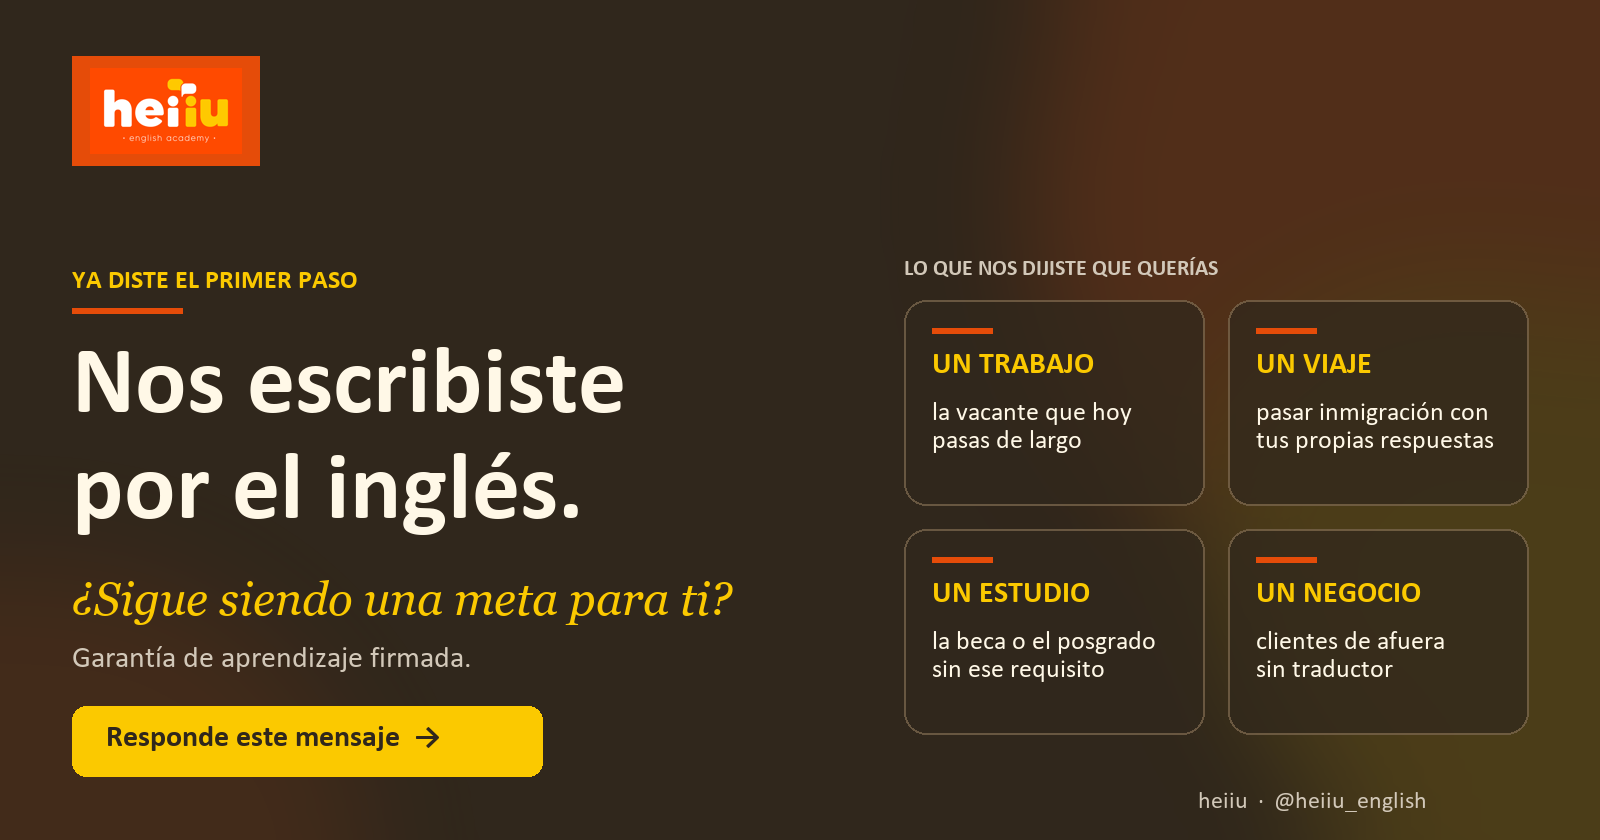
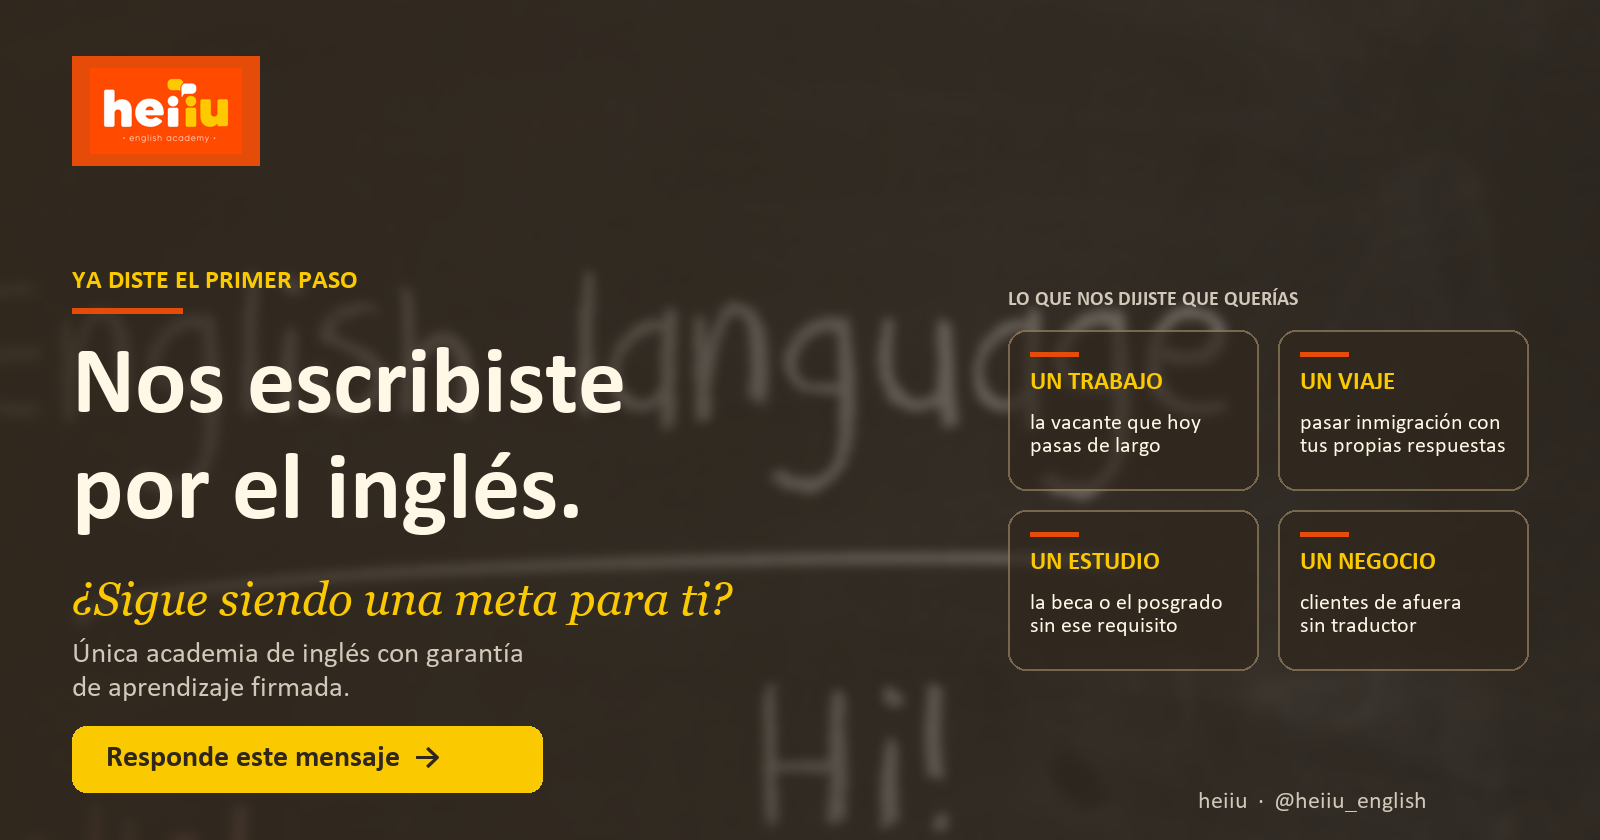
Pieza de reactivacion: fondo tablero (foto Pixabay) desenfocado con capa oscura, 'unica academia con garantia firmada', cuadros mas pequenos

Changed region(s): [[0.2812, 0.0, 1.0, 1.0], [0.0312, 0.7738, 0.3438, 0.9595], [0.25, 0.4024, 0.3125, 0.4333]]

diff --git a/generadores/comercial/gen_pieza_reactivacion.py b/generadores/comercial/gen_pieza_reactivacion.py
@@ -14,14 +14,16 @@ def font(name, size): return ImageFont.truetype(F + name, size)
 foto = os.path.join(BASE, 'fondo_reactivacion.jpg')
 if os.path.exists(foto):
     img = Image.open(foto).convert('RGB')
+    img = img.crop((int(img.width * 0.18), 0, img.width, int(img.height * 0.56)))  # franja superior, corrida a la derecha
     # recorte a 1600x840 cubriendo
     r = max(W / img.width, H / img.height); img = img.resize((int(img.width * r) + 1, int(img.height * r) + 1))
     x = (img.width - W) // 2; y = (img.height - H) // 2; img = img.crop((x, y, x + W, y + H))
     # capa oscura con degradado: mas oscura a la izquierda (texto), mas foto a la derecha
     overlay = Image.new('RGBA', (W, H), (0, 0, 0, 0)); od = ImageDraw.Draw(overlay)
     for i in range(W):
-        a = int(235 - 110 * (i / W))  # 235 -> 125
+        a = int(242 - 100 * (i / W))  # 242 -> 142
         od.line([(i, 0), (i, H)], fill=(48, 39, 28, a))
+    img = img.filter(ImageFilter.GaussianBlur(5))
     img = Image.alpha_composite(img.convert('RGBA'), overlay).convert('RGB')
 else:
     img = Image.new('RGB', (W, H), BG)
@@ -53,26 +55,27 @@ d.text((72, 446), 'por el inglés.', font=font('calibrib.ttf', 96), fill=CREMA)
 # pregunta
 d.text((72, 572), '¿Sigue siendo una meta para ti?', font=font('georgiai.ttf', 46), fill=AMAR)
 # garantia
-d.text((72, 644), 'Garantía de aprendizaje firmada.', font=font('calibri.ttf', 30), fill=GRIS)
+d.text((72, 640), 'Única academia de inglés con garantía', font=font('calibri.ttf', 29), fill=GRIS)
+d.text((72, 674), 'de aprendizaje firmada.', font=font('calibri.ttf', 29), fill=GRIS)
 # boton
-bx, by, bw, bh = 72, 706, 470, 70
+bx, by, bw, bh = 72, 726, 470, 66
 d.rounded_rectangle([bx, by, bx + bw, by + bh], radius=14, fill=AMAR)
 d.text((bx + 34, by + 17), 'Responde este mensaje  →', font=font('calibrib.ttf', 30), fill=BG)
 # tarjetas de motivo (lado derecho), semitransparentes para que se vea el fondo
 cards = [('UN TRABAJO', 'la vacante que hoy\npasas de largo'), ('UN VIAJE', 'pasar inmigración con\ntus propias respuestas'), ('UN ESTUDIO', 'la beca o el posgrado\nsin ese requisito'), ('UN NEGOCIO', 'clientes de afuera\nsin traductor')]
-cw, ch, gap = 300, 205, 24
-x0 = W - 72 - (2 * cw + gap); y0 = 300
+cw, ch, gap = 250, 160, 20
+x0 = W - 72 - (2 * cw + gap); y0 = 330
 cl = Image.new('RGBA', (W, H), (0, 0, 0, 0)); cd = ImageDraw.Draw(cl)
 for i, (tit, sub) in enumerate(cards):
     cx = x0 + (i % 2) * (cw + gap); cy = y0 + (i // 2) * (ch + gap)
-    cd.rounded_rectangle([cx, cy, cx + cw, cy + ch], radius=22, fill=(48, 39, 28, 190), outline=(120, 100, 75, 200), width=2)
+    cd.rounded_rectangle([cx, cy, cx + cw, cy + ch], radius=18, fill=(48, 39, 28, 175), outline=(140, 118, 88, 200), width=2)
 img = Image.alpha_composite(img.convert('RGBA'), cl).convert('RGB'); d = ImageDraw.Draw(img)
 for i, (tit, sub) in enumerate(cards):
     cx = x0 + (i % 2) * (cw + gap); cy = y0 + (i // 2) * (ch + gap)
-    d.rectangle([cx + 28, cy + 28, cx + 88, cy + 33], fill=NAR)
-    d.text((cx + 28, cy + 50), tit, font=font('calibrib.ttf', 30), fill=AMAR)
-    d.multiline_text((cx + 28, cy + 100), sub, font=font('calibri.ttf', 26), fill=CREMA, spacing=8)
-d.text((x0, y0 - 42), 'LO QUE NOS DIJISTE QUE QUERÍAS', font=font('calibrib.ttf', 22), fill=GRIS)
+    d.rectangle([cx + 22, cy + 22, cx + 70, cy + 26], fill=NAR)
+    d.text((cx + 22, cy + 40), tit, font=font('calibrib.ttf', 25), fill=AMAR)
+    d.multiline_text((cx + 22, cy + 82), sub, font=font('calibri.ttf', 22), fill=CREMA, spacing=6)
+d.text((x0, y0 - 40), 'LO QUE NOS DIJISTE QUE QUERÍAS', font=font('calibrib.ttf', 20), fill=GRIS)
 # pie
 d.text((W - 72 - 330, 790), 'heiiu  ·  @heiiu_english', font=font('calibri.ttf', 24), fill=GRIS)
 
